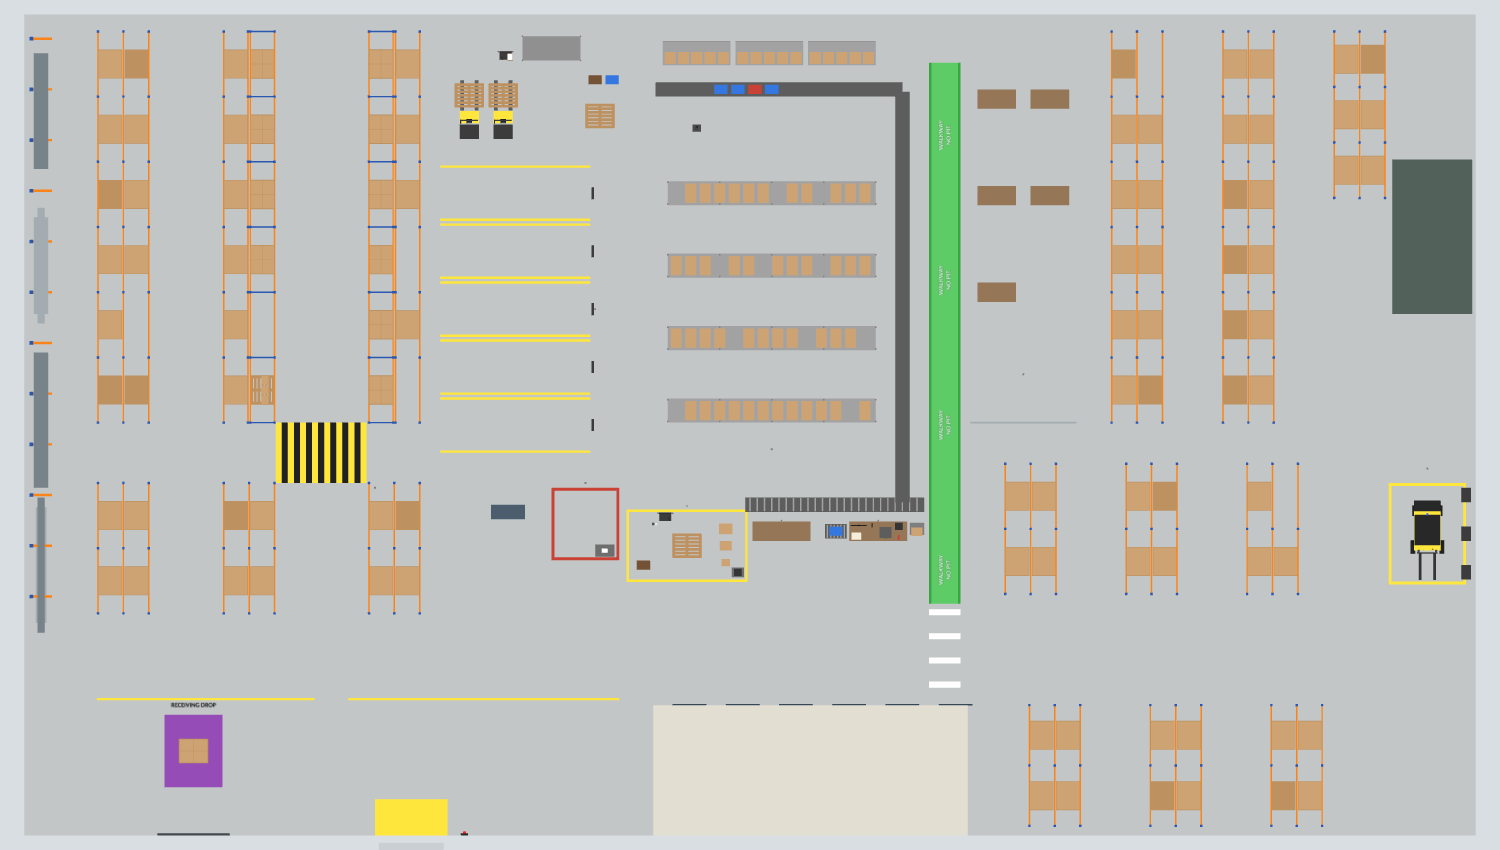
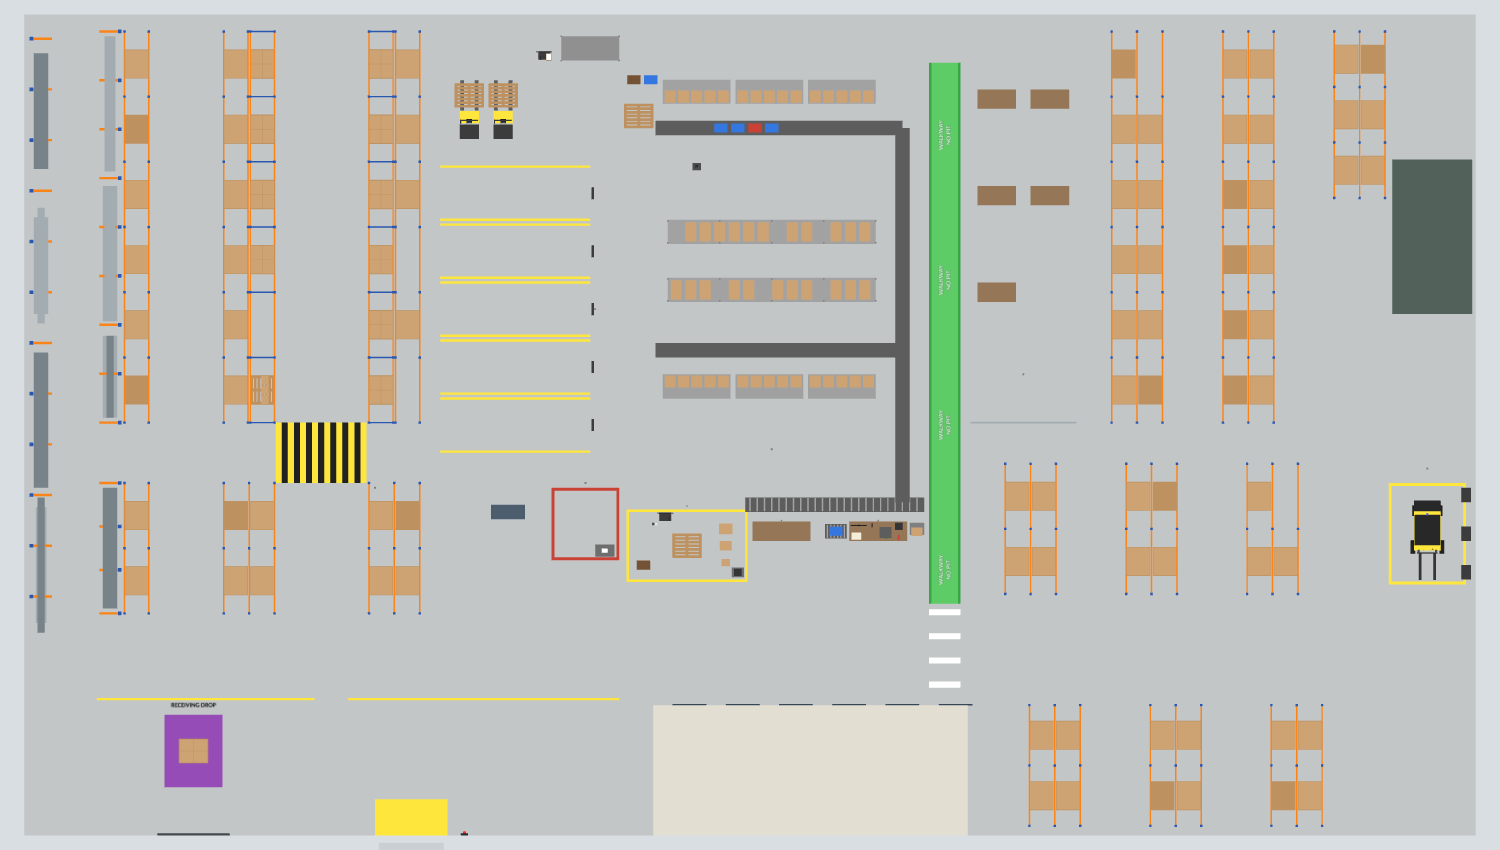
Arden DC Trainer: floor corrections from Andrew
Row PB is long product, pushback racks on the north wall removed (flow racks
moved off the wall), static rack between the north and south flow racks,
induction against the north wall at the north-east corner of staging.

Claude-Session: https://claude.ai/code/session_01AhHjg2FAkLdsrFwxvXEZUR

diff --git a/hubbell-trainer/index.html b/hubbell-trainer/index.html
@@ -374,9 +374,10 @@ function laser(from, to) { const a = from.getWorldPosition(new THREE.Vector3());
 
 /* ============================================================
    THE WAREHOUSE (meters; x east, z south). Laid out from the Arden floor plan (Facility Outlook deck, Jan 2026) plus
-   Andrew's notes of 2026-11-28, at about 1:3 scale: cantilever (long product) on the west wall, Pallet Land with north-south
-   aisles, a middle strip with induction at its north end, staging lanes, then the Lead Hub and Non Conf at its south end,
-   Unit / Carton Pick (flow racks, conveyor) in the centre, Truck Pack and Parcel Pack south of it, the walkway, VA and Slow
+   Andrew's notes of 2026-11-28, at about 1:3 scale: long product (cantilever) on the west wall and in row PB, Pallet Land with north-south
+   aisles, the old long product strip as staging (induction against the north wall at its north-east corner, lanes, then the Lead Hub
+   and Non Conf at its south end), Unit / Carton Pick (flow racks north and south, static rack in the middle, conveyor) in the centre,
+   open floor on the north wall where the pushback racks were, Truck Pack and Parcel Pack south of it, the walkway, VA and Slow
    Moving to the north-east, East Warehouse Storage and the chargers to the east, a main aisle, then docks and offices on the south wall.
    ============================================================ */
 const C = { brown: 0xa77b4f, cardboard: 0xc49a6c, rackBlue: 0x1f4fa8, beam: 0xf07c00, pallet: 0xb48a58, conc: 0xb9bcbd, yellow: 0xfddb33, green: 0x2e9d3a, red: 0xc0392b, blue: 0x2a6fd6, orange: 0xf28c28, black: 0x111111, white: 0xffffff, gray: 0x777777 };
@@ -488,7 +489,7 @@ pickFace('P106-A', 'HBL2621', 4);
 
 /* ---------- induction flow rack and THORs ---------- */
 {
-  const ix = -8.2, iz = -14.6;
+  const ix = -6.6, iz = -14.6;
   box(2.4, .05, 1, M(0x888888), ix, .8, iz); box(2.4, .05, 1, M(0x888888), ix, 1.5, iz);
   for (const x of [-1.2, 1.2]) for (const z of [-.5, .5]) box(.06, 1.8, .06, M(C.gray), ix + x, 0, iz + z);
   place(label('INDUCTION\nFLOW RACK', 1.1, .5, { bg: '#FDDB33' }), ix, 2.1, iz + .5);
@@ -504,17 +505,17 @@ pickFace('P106-A', 'HBL2621', 4);
   OBJ.indTotes = totes;
   const shelf = box(2.4, .05, 1, HIDDEN, ix, .86, iz); reg(shelf, 'ind_rack', 'Induction flow rack');
   /* induction computer, scanner, tote stacks, flow rack pallet, turnover log */
-  box(.08, 1.15, .08, M(0x333333), -10.1, 0, -14.35); box(.5, .04, .35, M(0x333333), -10.1, 1.0, -14.3);
-  const d = makeDevice('ind', 'gui', .62, .39, 'Induction computer (EWM)'); d.mesh.position.set(-10.1, 1.45, -14.42); scene.add(d.mesh); box(.66, .43, .03, M(0x111111), -10.1, 1.235, -14.45);
-  gunProp(-10.25, 1.07, -14.2, 'ind_gun', 'Induction scanner');
-  const log = new THREE.Group(); box(.22, .02, .3, M(0x8b5a2b), 0, 0, 0, log); box(.2, .005, .26, M(0xffffff), 0, .02, 0, log); log.position.set(-9.92, 1.04, -14.25); scene.add(log); reg(log, 'ind_log', 'Turnover log');
-  for (const [x, col, code, id] of [[-6.4, 0x6b4a2b, 'T-10240', 'ind_brown'], [-5.7, C.blue, 'T-10250', 'ind_blue']]) {
+  box(.08, 1.15, .08, M(0x333333), -8.5, 0, -14.35); box(.5, .04, .35, M(0x333333), -8.5, 1.0, -14.3);
+  const d = makeDevice('ind', 'gui', .62, .39, 'Induction computer (EWM)'); d.mesh.position.set(-8.5, 1.45, -14.42); scene.add(d.mesh); box(.66, .43, .03, M(0x111111), -8.5, 1.235, -14.45);
+  gunProp(-8.65, 1.07, -14.2, 'ind_gun', 'Induction scanner');
+  const log = new THREE.Group(); box(.22, .02, .3, M(0x8b5a2b), 0, 0, 0, log); box(.2, .005, .26, M(0xffffff), 0, .02, 0, log); log.position.set(-8.32, 1.04, -14.25); scene.add(log); reg(log, 'ind_log', 'Turnover log');
+  for (const [x, col, code, id] of [[-4.8, 0x6b4a2b, 'T-10240', 'ind_brown'], [-4.1, C.blue, 'T-10250', 'ind_blue']]) {
     for (let k = 0; k < 3; k++) box(.55, .3, .38, M(col), x, k * .31, -13.3);
     const top = new THREE.Group(); box(.55, .3, .38, M(col), 0, 0, 0, top); top.position.set(x, .93, -13.3); scene.add(top);
     const b = barcode(code, .2, .1, code); b.position.set(0, .16, .195); top.add(b); movable(top); OBJ[id] = top;
   }
-  const frp = makePallet(0); frp.position.set(-6.2, 0, -11.8); scene.add(frp); reg(frp, 'ind_frpallet', 'Flow rack induction pallet');
-  place(label('FLOW RACK\nINDUCTION', .7, .35, { bg: '#FDDB33' }), -6.2, 1.3, -12.35);
+  const frp = makePallet(0); frp.position.set(-4.6, 0, -11.8); scene.add(frp); reg(frp, 'ind_frpallet', 'Flow rack induction pallet');
+  place(label('FLOW RACK\nINDUCTION', .7, .35, { bg: '#FDDB33' }), -4.6, 1.3, -12.35);
 }
 function makeThor(id, battery) {
   /* rider pallet truck with a THOR vehicle-mount terminal; the operator stands at the origin facing -z */
@@ -538,24 +539,24 @@ movable(thor1); movable(thor2);
 /* ---------- flow rack zone D (decor and waste hunt) ---------- */
 for (let i = 0; i < 3; i++) {
   const x0 = -3.6 + i * 3;
-  const fr = new THREE.Group(); fr.position.set(x0 + 1.4, 0, -14.4); scene.add(fr);
+  const fr = new THREE.Group(); fr.position.set(x0 + 1.4, 0, -12.8); scene.add(fr);
   for (let l = 0; l < 4; l++) { const s = box(2.8, .04, 1, M(0x999999), 0, .5 + l * .45, 0, fr); s.rotation.x = .12; for (let k = 0; k < 5; k++) box(.45, .3, .5, M(C.cardboard), -1.1 + k * .55, .56 + l * .45, .2, fr); }
   bake(fr);
-  place(label('D' + (1 + i) + '00', .5, .25, { bg: '#FDDB33' }), x0 + 1.4, 2.6, -13.85);
+  place(label('D' + (1 + i) + '00', .5, .25, { bg: '#FDDB33' }), x0 + 1.4, 2.6, -12.25);
 }
-solid(-3.6, 5.4, -15, -13.8);
-const frConv = box(10.2, .7, .6, M(0x555555), 1.2, 0, -12.9); solid(-3.9, 6.3, -13.2, -12.6);   /* pick conveyor */
+solid(-3.6, 5.4, -13.4, -12.2);
+const frConv = box(10.2, .7, .6, M(0x555555), 1.2, 0, -11.3); solid(-3.9, 6.3, -11.6, -11.0);   /* pick conveyor */
 reg(frConv, 'fr_conv', 'Pick conveyor');
-for (let l = 1; l <= 2; l++) for (let k = 0; k < 5; k++) { const code = `D30${k + 1}-0${l + 1}`; const b = barcode(code, .2, .08, code); b.position.set(3.8 - 1.1 + k * .55, .47 + l * .45, -13.86); scene.add(b); }
-{ const b = barcode('HBL7740', .16, .08, 'HBL7740'); b.position.set(3.8 - 1.1 + 2 * .55, .47 + .45 + .12, -13.86); scene.add(b); }
+for (let l = 1; l <= 2; l++) for (let k = 0; k < 5; k++) { const code = `D30${k + 1}-0${l + 1}`; const b = barcode(code, .2, .08, code); b.position.set(3.8 - 1.1 + k * .55, .47 + l * .45, -12.26); scene.add(b); }
+{ const b = barcode('HBL7740', .16, .08, 'HBL7740'); b.position.set(3.8 - 1.1 + 2 * .55, .47 + .45 + .12, -12.26); scene.add(b); }
 for (const [x, col, code, red] of [[-1.2, C.blue, 'T-20006'], [-.5, C.blue, 'T-20007'], [.2, C.red, 'T-20009', 1], [.9, C.blue, 'T-20008']]) {
-  const t = new THREE.Group(); box(.55, .3, .38, M(col), 0, 0, 0, t); t.position.set(x, .7, -12.9); scene.add(t);
+  const t = new THREE.Group(); box(.55, .3, .38, M(col), 0, 0, 0, t); t.position.set(x, .7, -11.3); scene.add(t);
   const b = barcode(code, .2, .1, code); b.position.set(0, .16, .195); t.add(b); movable(t); if (red) OBJ.fr_red = t;
 }
-{ const base = box(.35, .95, .3, M(0x444444), -2.2, 0, -11.3); reg(base, 'mc_cradle', 'Handheld charging cradle'); place(label('HANDHELDS', .4, .12, { bg: '#FDDB33' }), -2.2, .7, -11.14);
+{ const base = box(.35, .95, .3, M(0x444444), -2.2, 0, -9.7); reg(base, 'mc_cradle', 'Handheld charging cradle'); place(label('HANDHELDS', .4, .12, { bg: '#FDDB33' }), -2.2, .7, -9.54);
   const mc = new THREE.Group(); box(.1, .17, .025, M(0x1a1a1a), 0, -.085, -.0125, mc);
   const d = makeDevice('mc', 'rf', .09, .135, 'Handheld (mobile computer)', 88); d.mesh.position.z = .002; mc.add(d.mesh);
-  mc.position.set(-2.2, 1.05, -11.3); mc.rotation.x = -.6; scene.add(mc); movable(mc); d.group = mc; }
+  mc.position.set(-2.2, 1.05, -9.7); mc.rotation.x = -.6; scene.add(mc); movable(mc); d.group = mc; }
 
 /* ---------- pack stations ---------- */
 function packBench(x, z, name) {
@@ -665,16 +666,29 @@ function decorShelf(x0, x1, zc, seed) {   /* an east-west carton shelf row */
   for (let l = 0; l < 4; l++) { box(len, .04, 1, M(0x999999), xc, .3 + l * .45, zc); for (let k = 0; k < Math.floor(len / .6); k++) if (hash(seed + l + ':' + k) % 5) box(.45, .28, .8, M(C.cardboard), x0 + .35 + k * .6, .34 + l * .45, zc); }
   solid(x0, x1, zc - .5, zc + .5);
 }
-/* Pallet Land: more aisles west and east of the working aisle, and the south block past the cross aisle */
-decorRack(-25.9, RZ0, 0.9, true, 'w1'); decorRack(-21.25, RZ0, 0.9, false, 'w2'); decorRack(-14.15, RZ0, 0.9, false, 'e1');
-decorRack(-25.9, 3.4, 8.8, true, 's1'); decorRack(-20.7, 3.4, 8.8, true, 's2'); decorRack(-14.7, 3.4, 8.8, true, 's3');
+function cantRow(xc, z0, z1, seed) {   /* a free-standing cantilever row for long product, arms to the west */
+  for (let z = z0; z <= z1 + .01; z += (z1 - z0) / Math.max(1, Math.round((z1 - z0) / 2.1))) { box(.15, 4, .15, M(C.rackBlue), xc + .4, 0, z); for (const y of [.9, 1.9, 2.9]) box(.9, .08, .1, M(C.beam), xc, y, z); }
+  for (const y of [.98, 1.98, 2.98]) for (let z = z0; z < z1 - 3; z += 6.2) box(.3 + (hash(seed + y + z) % 3) * .15, .22, Math.min(5.6, z1 - z - .4), M(hash(seed + 'c' + y + z) % 2 ? 0x9aa3a8 : 0x6f7b80), xc, y, z + Math.min(5.6, z1 - z - .4) / 2 + .2);
+  solid(xc - .5, xc + .5, z0, z1);
+}
+/* Pallet Land: row PB (first row from the west) is long product now; more aisles west and east of the working aisle; the south block */
+cantRow(-26.45, RZ0, 0.9, 'pb'); decorRack(-25.35, RZ0, 0.9, false, 'w1'); decorRack(-21.25, RZ0, 0.9, false, 'w2'); decorRack(-14.15, RZ0, 0.9, false, 'e1');
+cantRow(-26.45, 3.4, 8.8, 'pb2'); decorRack(-25.35, 3.4, 8.8, false, 's1'); decorRack(-20.7, 3.4, 8.8, true, 's2'); decorRack(-14.7, 3.4, 8.8, true, 's3');
 /* cantilever (long product) on the west wall */
 for (let z = -15; z <= 8.1; z += 2.1) { box(.15, 4, .15, M(C.rackBlue), -29.7, 0, z); for (const y of [.9, 1.9, 2.9]) box(.9, .08, .1, M(C.beam), -29.3, y, z); }
 for (const y of [.98, 1.98, 2.98]) for (const z0 of [-14.6, -8.2, -1.8, 4.2]) box(.3 + (hash('lp' + y + z0) % 3) * .15, .22, 5.6 - (hash('lq' + y + z0) % 3) * .8, M(hash('lr' + y + z0) % 2 ? 0x9aa3a8 : 0x6f7b80), -29.3, y, z0 + 2.6);
-solid(-30, -28.85, -15.5, 8.6); place(label('LONG PRODUCT\nCANTILEVER', 1.4, .6, { bg: '#FDDB33' }), -28.8, 4.4, -3, Math.PI / 2);
+solid(-30, -28.85, -15.5, 8.6); place(label('LONG PRODUCT\nCANTILEVER', 1.4, .6, { bg: '#FDDB33' }), -28.8, 4.4, -3, Math.PI / 2); place(label('PB\nLONG PRODUCT', 1.2, .6, { bg: '#FDDB33' }), -26.45, 4.4, 0.95, 0);
 /* Unit / Carton Pick: more shelf rows south of the flow racks, and the conveyor that runs down the east side to pack */
-for (const [i, z] of [-8.6, -5.6, -2.6, 0.4].entries()) decorShelf(-3.4, 5.2, z, 'u' + i);
-box(.6, .2, 17, M(0x555555), 6.3, 2.4, -4.3); for (const z of [-12.6, -8.5, -4.3, 0, 4]) for (const dx of [-.25, .25]) box(.06, 2.4, .06, M(C.gray), 6.3 + dx, 0, z);
+decorShelf(-3.4, 5.2, -7.0, 'u0'); decorShelf(-3.4, 5.2, -4.6, 'u1');   /* static rack in the middle */
+place(label('STATIC RACK', 1.2, .35, { bg: '#FDDB33' }), -3.45, 2.4, -5.8, -Math.PI / 2);
+for (let i = 0; i < 3; i++) {   /* the south flow racks, facing their own conveyor */
+  const fr = new THREE.Group(); fr.position.set(-2.2 + i * 3, 0, -.6); fr.rotation.y = Math.PI; scene.add(fr);
+  for (let l = 0; l < 4; l++) { const sh = box(2.8, .04, 1, M(0x999999), 0, .5 + l * .45, 0, fr); sh.rotation.x = .12; for (let k = 0; k < 5; k++) box(.45, .3, .5, M(C.cardboard), -1.1 + k * .55, .56 + l * .45, .2, fr); }
+  bake(fr); place(label('D' + (6 + i) + '00', .5, .25, { bg: '#FDDB33' }), -2.2 + i * 3, 2.6, -1.15, Math.PI);
+}
+solid(-3.6, 5.4, -1.2, 0); box(10.2, .7, .6, M(0x555555), 1.2, 0, -2.1); solid(-3.9, 6.3, -2.4, -1.8);
+place(label('FLOW RACK', 1.2, .35, { bg: '#FDDB33' }), -3.95, 2.4, -11.9, -Math.PI / 2); place(label('FLOW RACK', 1.2, .35, { bg: '#FDDB33' }), -3.95, 2.4, -1.4, -Math.PI / 2);
+box(.6, .2, 15.5, M(0x555555), 6.3, 2.4, -3.55); for (const z of [-11, -7, -3.5, 0, 4]) for (const dx of [-.25, .25]) box(.06, 2.4, .06, M(C.gray), 6.3 + dx, 0, z);
 place(label('UNIT / CARTON PICK', 2.2, .4, { bg: '#FDDB33' }), .9, 3.3, 2.1, 0); box(.08, 3.5, .08, M(C.gray), .9, 0, 2.0);
 /* north-east: VA area and Slow Moving; east: maintenance, East Warehouse Storage, chargers */
 for (const [x, z] of [[10.2, -12.5], [12.4, -12.5], [10.2, -8.5], [12.4, -8.5], [10.2, -4.5]]) { box(1.6, .9, .8, M(0x8d6e4f), x, 0, z); solid(x - .8, x + .8, z - .4, z + .4); }
@@ -1094,7 +1108,7 @@ MODS.pick = {
     rf('thor2', '2. Check your zone', 'Compare the zone on the screen with the sign at the end of the rack: P100. Wrong zone? F7.', { head: '415 Resource', lines: ['Res:  THOR2', 'Zone: D300', '', 'F4 = start', 'F7 = change zone'] }, { key: 'F7', keyFb: { F4: 'D300 is flow rack. The sign says P100: F7 first.', ENT: 'Check the zone first: F7.' }, why: 'The zone decides which tasks the system gives you.' }),
     rf('thor2', '2. Change the zone', 'Type P100, press ENT.', { head: 'Change zone', fields: [{ label: 'Zone', via: 'type', expect: 'P100', err: 'Type the zone on the sign: P100.' }] }, { why: 'Wrong zone means wasted travel and misrouted picks.' }),
     choice('3. Totes', 'Order 4400101 is LTL. How many totes do you take?', ['1 tote', 'Up to 4 totes', 'As many as fit', 'None'], 0, '1 tote for LTL, up to 4 for parcel.'),
-    rf('thor2', '3. Scan your tote', 'Ride to the induction flow rack, at the north end of the staging strip. Scan the first tote, T-10230, then press F4.', { head: 'Totes 4400101', lines: ['Wave LTL', 'Totes: 1'], fields: [{ label: 'Tote', expect: 'T-10230', wrong: { 'T-10231': 'Take the first tote in line: T-10230.', 'T-10232': 'Take the first tote in line: T-10230.', 'T-10233': 'Take the first tote in line: T-10230.' } }] }, { key: 'F4', why: 'The tote ties the order to you.' }),
+    rf('thor2', '3. Scan your tote', 'Ride to the induction flow rack, against the north wall at the north-east corner of the staging strip. Scan the first tote, T-10230, then press F4.', { head: 'Totes 4400101', lines: ['Wave LTL', 'Totes: 1'], fields: [{ label: 'Tote', expect: 'T-10230', wrong: { 'T-10231': 'Take the first tote in line: T-10230.', 'T-10232': 'Take the first tote in line: T-10230.', 'T-10233': 'Take the first tote in line: T-10230.' } }] }, { key: 'F4', why: 'The tote ties the order to you.' }),
     carry('3. Tote on the THOR', 'Put the tote on the pallet on your THOR.', ['ind_tote0', 'bc:T-10230'], 'thor2_pallet', 'The tote rides with you to every location.', { dropOn: () => [OBJ.thor2_pallet, V3(.3, .13, .25)] }),
     choice('3. Cones', 'What is in each tote?', ['1 green, 1 orange and 1 blue cone', '3 green cones', 'No cones', '1 red cone'], 0, 'Without the cones you cannot mark the order later.'),
     rf('thor2', '4. Go to the location', 'Ride into the Pallet Land aisle (west of staging) to the SRCBIN on the screen. The racks on your left as you ride north are row P10x. Scan the location label.', { head: 'Task 1 of 2', lines: ['SRCBIN P104-01-A', 'Prod   HBL5262', 'Qty    6 EA'], fields: [{ label: 'Loc', expect: 'P104-01-A', err: 'Wrong location. The RF says P104-01-A.' }] }, { why: 'Scanning the location proves you are at the right bin before you touch product.' }),
@@ -1116,7 +1130,7 @@ MODS.pick = {
 
 /* ---------- 3. Pick: Flow Rack with a handheld ---------- */
 MODS.flow = {
-  id: 'flow', name: 'Pick: Flow Rack (handheld)', start: { x: -1.4, z: -10.4, yaw: 0 }, target: 'lines per hour. Hot orders first.',
+  id: 'flow', name: 'Pick: Flow Rack (handheld)', start: { x: -1.4, z: -8.9, yaw: 0 }, target: 'lines per hour. Hot orders first.',
   steps: [
     info('Flow Rack Pick', 'Core process, Draft 1.0. Your tool is the handheld: one device that scans, shows the RF screens and has the keys. Zone D###: D100, D200, D300, D400, D600, D700.', 'Totes ride the conveyor with you; the handheld goes everywhere you go.'),
     act('1. Get your handheld', 'Take a handheld from the charging cradle.', ['mc_cradle', 'dev:mc'], 'A scanner that dies mid-pick leaves totes half-picked on the line.', { onHit() { equip('mc'); } }),
@@ -1141,7 +1155,7 @@ MODS.flow = {
 
 /* ---------- 4. Induction ---------- */
 MODS.induct = {
-  id: 'induct', name: 'Induction', start: { x: -9.0, z: -11.2, yaw: .3 }, target: 'orders inducted per hour. Induction sets the pace for the whole line.',
+  id: 'induct', name: 'Induction', start: { x: -7.4, z: -11.3, yaw: .33 }, target: 'orders inducted per hour. Induction sets the pace for the whole line.',
   steps: [
     info('Induction', 'Core process, Draft 1.0. Tools: computer (SAP EWM), scanner. Induction is where an order gets its totes. Nothing gets picked until it is inducted.', 'Induction steers the work for every picker behind you.'),
     getGun('ind_gun', 'scanner at the induction computer'),
@@ -1152,9 +1166,9 @@ MODS.induct = {
     choice('2. Supervisor', 'Your supervisor asks you to do 4400125 next instead.', ['Do that one', 'Finish the queue your way first', 'Ignore it, oldest first is the rule', 'Ask another inducter to do it'], 0, 'Don\'t set your own priorities for an area. A supervisor-directed order goes next.'),
     rf('ind', '3. Induct the LTL order', 'Order 4400101, LTL wave, color BROWN. Scan 1 tote in the wave color (the tote stacks are to your right).', { head: 'Induct 4400101', lines: ['Wave LTL  color BROWN', 'Totes needed: 1'], fields: [{ label: 'Tote', expect: 'T-10240', wrong: { 'T-10250': 'Blue is static / flow rack. Match the wave: brown.' } }], pad: false }, { why: 'The tote color tells pack and the dock how the order ships.' }),
     choice('3. Cones', 'Before the tote goes on the rack:', ['1 green, 1 orange and 1 blue cone in it', 'Nothing, the picker adds cones', 'Only a green cone', 'Write the order number on it'], 0, 'Pallet Land pickers take their totes from this rack, ready to go.'),
-    act('3. Place it', 'Put the tote on the induction flow rack.', 'ind_rack', 'Pallet Land pickers take their totes from this rack, so it has to be stocked and in order.', { onHit() { OBJ.ind_brown.position.set(-8.2 + .9, 1.55, -14.5); } }),
+    act('3. Place it', 'Put the tote on the induction flow rack.', 'ind_rack', 'Pallet Land pickers take their totes from this rack, so it has to be stocked and in order.', { onHit() { OBJ.ind_brown.position.set(-6.6 + .9, 1.55, -14.5); } }),
     rf('ind', '4. Induct a flow rack order', 'Order 4400125, FLOW wave, color BLUE. Scan a tote in the wave color.', { head: 'Induct 4400125', lines: ['Wave FLOW  color BLUE', 'Totes needed: 1'], fields: [{ label: 'Tote', expect: 'T-10250', wrong: { 'T-10240': 'Brown is Pallet Land. This wave is blue.' } }], pad: false }),
-    act('4. Place it', 'Put it on the flow rack induction pallet.', 'ind_frpallet', 'Match the tote color to the wave every time.', { onHit() { OBJ.ind_blue.position.set(-6.2, .13, -11.8); } }),
+    act('4. Place it', 'Put it on the flow rack induction pallet.', 'ind_frpallet', 'Match the tote color to the wave every time.', { onHit() { OBJ.ind_blue.position.set(-4.6, .13, -11.8); } }),
     choice('5. Completed totes', 'How many completed totes do you move at a time?', ['Up to 10: zone-complete to the conveyor, order-complete to D100', 'All of them at once', 'One at a time', 'Leave them for the pickers'], 0, 'Too few and pickers wait; too many and the line jams.'),
     choice('6. Stock', 'How do you keep empty pallets ready?', ['3 stacks about 10 high, plus a row of singles in front', 'One big stack', 'Whatever is left', 'Pickers get their own'], 0, 'A picker who has to hunt for a pallet or cones isn\'t picking.'),
     choice('7. Release work', 'How do you decide which work to release?', ['Check with the supervisors where the demand is', 'Run down the queue', 'Whatever is easiest', 'Biggest orders first'], 0, 'Releasing by need keeps every area busy and nothing waiting.'),
@@ -1241,7 +1255,7 @@ function huntSpot(id, x, y, z, answer, what, propFn) {
 huntSpot('w_stickers', 1.3, 1.4, 5.4, ['Over-processing'], 'A carton covered in old colored stickers. Most of them were removed in Kaizen 03.', () => { const c = carton(.4, .3, .3); c.position.set(1.6, .9, 5.4); HP.add(c); for (let i = 0; i < 6; i++) { const s = box(.08, .005, .06, M([C.red, C.yellow, C.green, 0xff66cc, C.blue, C.orange][i]), 1.45 + (i % 3) * .1, 1.2, 5.35 + Math.floor(i / 3) * .08); } });
 huntSpot('w_boxstock', 9.4, 1.6, 7.2, ['Motion'], 'Box stock for PK03 kept here, across the walkway from the bench. Every carton is a walk.', () => { for (let i = 0; i < 3; i++) box(.6, .5, .5, M(C.cardboard), 9.4, i * .5, 7.6); });
 huntSpot('w_pallets', -11.3, 2.6, -8.6, ['Inventory'], 'Empty pallets stacked far past the 3 stacks of about 10 the Induction SW calls for.', () => { for (let s = 0; s < 6; s++) for (let i = 0; i < 16; i++) box(1.2, .14, 1, M(C.pallet), -12.6 + (s % 3) * 1.3, i * .145, -9.2 + Math.floor(s / 3) * 1.1); });
-huntSpot('w_waiting', -8.2, 2.0, -13.3, ['Waiting'], 'A picker standing at an empty induction rack. No totes inducted, nothing to pick.', () => { person(-8.2, -13.3, 0); });
+huntSpot('w_waiting', -6.6, 2.0, -13.3, ['Waiting'], 'A picker standing at an empty induction rack. No totes inducted, nothing to pick.', () => { person(-6.6, -13.3, 0); });
 huntSpot('w_banding', -10.2, 1.6, -6.2, ['Over-processing'], 'Every pallet in this lane is banded. Only UK, long product and 24-50 in cabinets need bands.', () => { for (let i = 0; i < 2; i++) { const p = makePallet(2, { wrap: true }); p.position.set(-11 + i * 1.6, 0, -6.2); HP.add(p); for (const x of [-.3, .3]) box(.03, .02, 1.02, M(0x111111), -11 + i * 1.6 + x, .75, -6.2); } });
 huntSpot('w_damaged', 6.4, 1.3, 4.3, ['Defects'], 'A crushed carton riding the outfeed conveyor. It will be refused or claimed.', () => { const c = carton(.4, .2, .35, 0x9b7a50); c.position.set(6.4, .8, 4.3); c.rotation.z = .3; HP.add(c); });
 huntSpot('w_prebuilt', 3.1, 2.4, 6.9, ['Overproduction'], 'A tower of cartons built hours ahead of any order. They take space and get crushed.', () => { for (let i = 0; i < 7; i++) box(.5, .3, .4, M(C.cardboard), 3.1, i * .3, 6.9); });

diff --git a/hubbell-trainer/README.md b/hubbell-trainer/README.md
@@ -95,7 +95,9 @@ Checked in the emulated Quest 3: board at 0.62 m and 29 degrees, a poke on the f
 ## Floor layout from the Arden floor plan (2026-11-28)
 The floor now follows the plan in `Facility_Outlook_Arden.pptx` (Drive, Jan 2026; the DWG `Arden_Facility_Layout_7.9.25.dwg` is the source drawing but could not be opened here) plus Andrew's notes: cantilever on the west wall, staging in the middle strip with induction at its north end and the Lead Hub and Non Conf at its south end, truck pack next to parcel pack. Top view: `floorplan-top-view.png` (north up).
 
-West to east: cantilever (long product) on the west wall; Pallet Land with north-south aisles (the working aisle is P101-P106 on its west side, P111-P116 on its east side, a cross aisle with the striped stop, then a south block); the middle strip (induction and the THORs at the north end, staging lanes L01 to L05, Lead Hub and Non Conf at the south end); Unit / Carton Pick (flow racks D100-D300 on the north wall, shelf rows, the conveyor running down the east side to pack); the walkway; VA and Slow Moving; maintenance. South of Unit Pick: Truck Pack (PK10) then Parcel Pack (PK03, PK04). A main aisle runs east-west across the building; south of it are the inbound dock, the outbound dock (Door 4), and the offices. East: East Warehouse Storage and the chargers.
+Corrected by Andrew the same day against the blueprint: long product is on the west wall and in row PB (first rack row); the old long product strip is staging with the Lead Hub as a small box at its south end; Unit / Carton Pick is flow racks north and south with static rack in the middle; the pushback racks on the north wall are gone (open floor); induction is against the north wall at the north-east corner of the staging strip.
+
+West to east: cantilever (long product) on the west wall and row PB; Pallet Land with north-south aisles (the working aisle is P101-P106 on its west side, P111-P116 on its east side, a cross aisle with the striped stop, then a south block); the middle strip (induction and the THORs at the north end, staging lanes L01 to L05, Lead Hub and Non Conf at the south end); Unit / Carton Pick (flow racks D100-D300 on the north wall, shelf rows, the conveyor running down the east side to pack); the walkway; VA and Slow Moving; maintenance. South of Unit Pick: Truck Pack (PK10) then Parcel Pack (PK03, PK04). A main aisle runs east-west across the building; south of it are the inbound dock, the outbound dock (Door 4), and the offices. East: East Warehouse Storage and the chargers.
 
 It is about 1:3 scale (60 x 34 m), so there are 3 rack aisles where the building has about 14, and aisle widths are kept at real size so the forklift fits. The forklift module is now a real route: chargers, west along the main aisle to the inbound dock, back and north into Pallet Land, put away, return.
 
